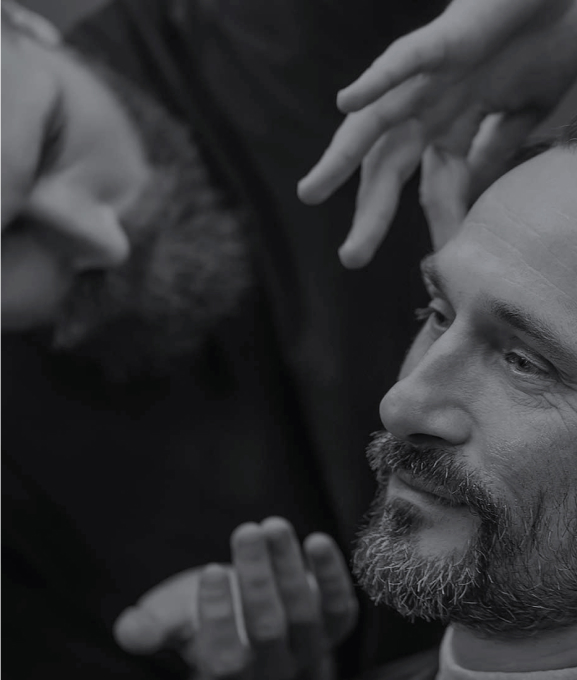
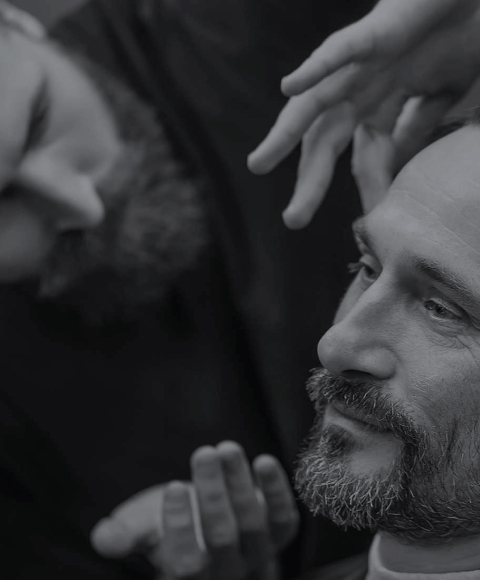
hero photo fix, feedback fix

diff --git a/src/js/feedbackForm.js b/src/js/feedbackForm.js
@@ -3,7 +3,6 @@ import Swal from 'sweetalert2/dist/sweetalert2.js'
 import 'sweetalert2/src/sweetalert2.scss'
 
 const feedbackForm = document.querySelectorAll('.section-feedback__form')
-
 const STORAGE_KEY = "feedbackForm";
 
 addEventListener()
@@ -14,20 +13,25 @@ function addEventListener() {
     }))
 }
 
-
 let feedbackFormData = {};
 
 checkLocalStorage()
 
 function getData(e) {
     feedbackFormData[e.target.name] = e.target.value;
+    console.log(feedbackFormData.name);
     localStorage.setItem(STORAGE_KEY, JSON.stringify(feedbackFormData));
+     feedbackForm.forEach((el => {
+            el[0].value = feedbackFormData.name || '';
+        el[1].value = feedbackFormData.tel || '';
+        el[2].value = feedbackFormData.text || '';
+        }))
+        
 }
 
 function feedbackFormHandle(e) {
     e.preventDefault()
-    feedbackForm.forEach((el => {
-       if (el[0].value === '' || el[1].value === '') {
+       if (feedbackFormData.name === undefined || feedbackFormData.tel === undefined) {
         Swal.fire({
   title: 'Please fill in the fields (name and telephone are required).',
   icon: 'info',
@@ -39,13 +43,15 @@ function feedbackFormHandle(e) {
   icon: 'success',
                  confirmButtonText: 'Cool'
              })
-            console.log(feedbackFormData);
-          e.currentTarget.reset();
+           console.log(feedbackFormData);
+           feedbackForm.forEach((el => {
+                       el.reset();  
+           }))
           localStorage.removeItem(STORAGE_KEY);
-        feedbackFormData = {};
+           feedbackFormData = {};
+           
     }   
-    }))
-      
+     
 }
 
 function checkLocalStorage() {

diff --git a/src/sass/layouts/_hero.scss b/src/sass/layouts/_hero.scss
@@ -84,7 +84,7 @@
 
 .hero-photo {
   position: absolute;
-
+  width: 100%;
   @media screen and (min-width: 1070px) {
     width: 100%;
   }
